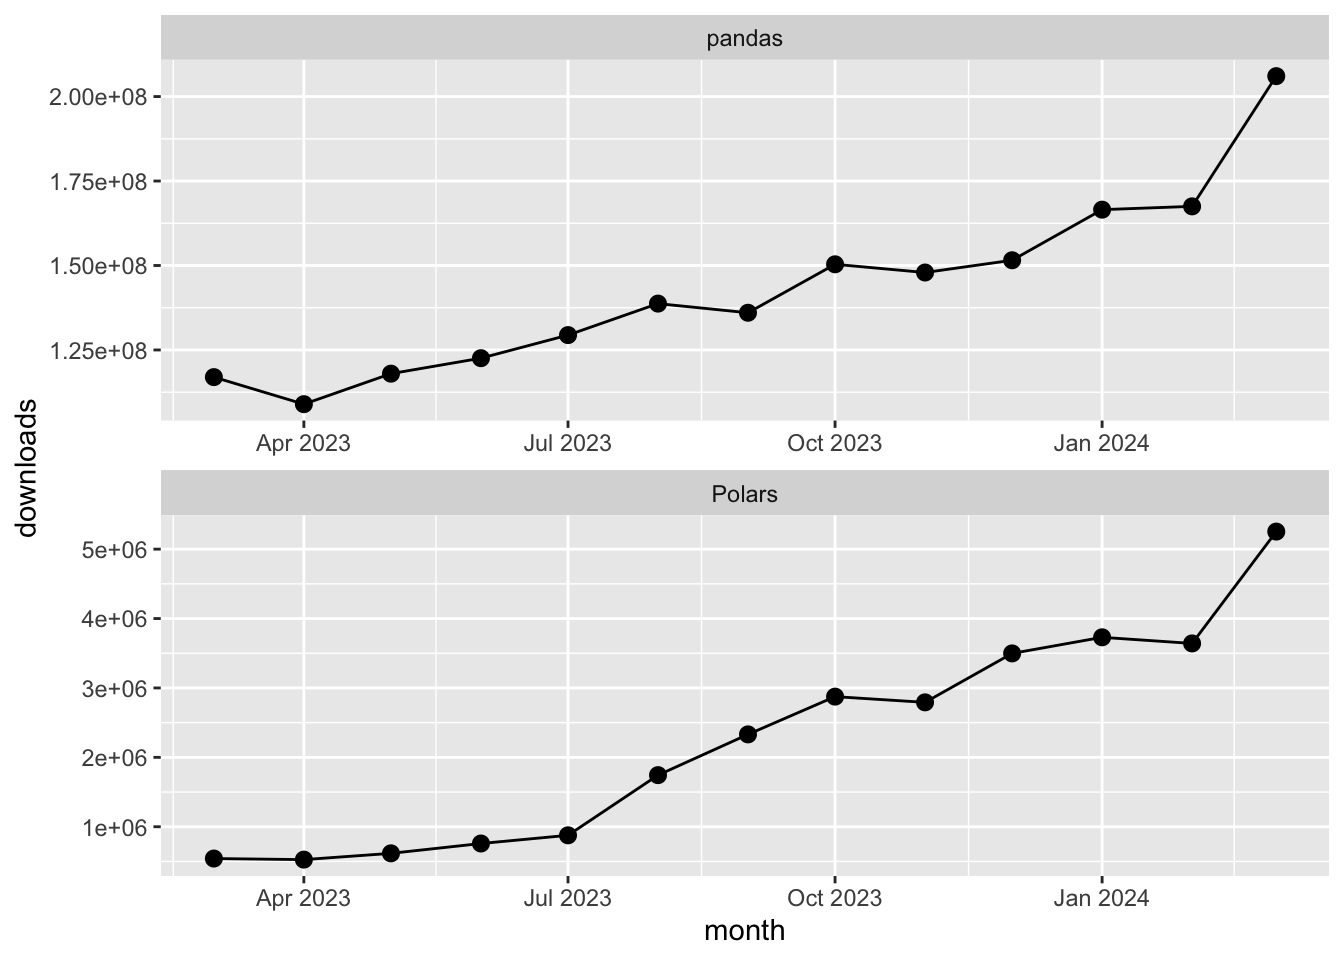
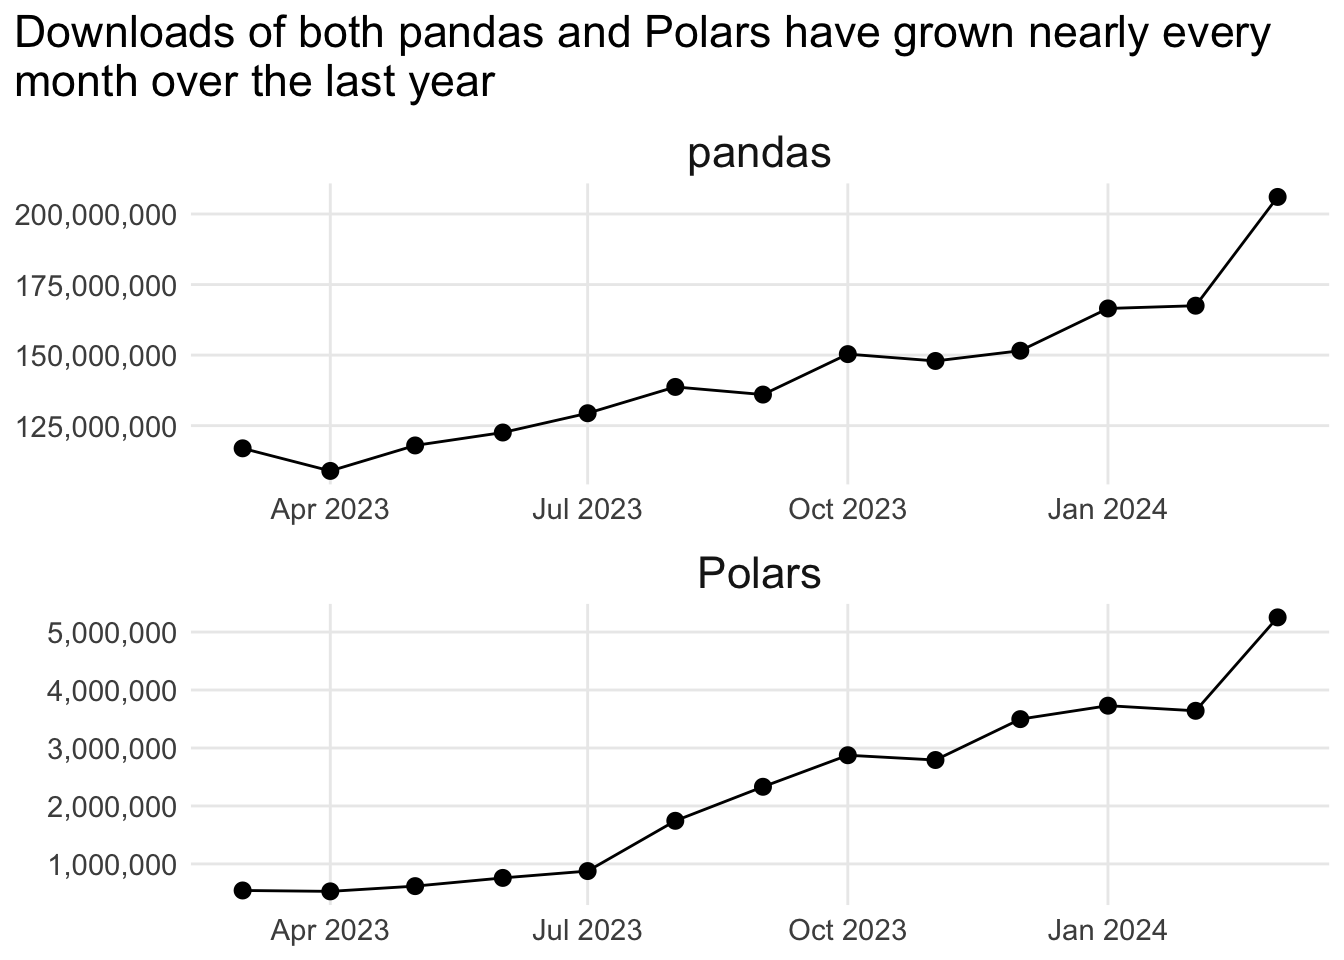
Smarten up charts

diff --git a/pipeline_instructions.html b/pipeline_instructions.html
@@ -183,7 +183,7 @@ pre > code.sourceCode > span > a:first-child::before { text-decoration: underlin
 <span id="cb5-11"><a href="#cb5-11" aria-hidden="true" tabindex="-1"></a></span>
 <span id="cb5-12"><a href="#cb5-12" aria-hidden="true" tabindex="-1"></a>bucket_name</span></code><button title="Copy to Clipboard" class="code-copy-button"><i class="bi"></i></button></pre></div>
 <div class="cell-output cell-output-stdout">
-<pre><code>[1] "fruition_ensigncy3576"</code></pre>
+<pre><code>[1] "shrink_row1916"</code></pre>
 </div>
 </div>
 <p>Now we can create the bucket. Notice that I’m calling a couple of environment variables below - my GCP project ID and my the zone where I want to host the bucket, both of which are stored in the .Renviron file we created earlier.</p>
@@ -198,16 +198,16 @@ pre > code.sourceCode > span > a:first-child::before { text-decoration: underlin
 <span id="cb7-8"><a href="#cb7-8" aria-hidden="true" tabindex="-1"></a>  <span class="at">projection =</span> <span class="fu">c</span>(<span class="st">"noAcl"</span>)</span>
 <span id="cb7-9"><a href="#cb7-9" aria-hidden="true" tabindex="-1"></a>)</span></code><button title="Copy to Clipboard" class="code-copy-button"><i class="bi"></i></button></pre></div>
 <div class="cell-output cell-output-stderr">
-<pre><code>ℹ 2024-04-02 17:57:50 &gt; Bucket created successfully: fruition_ensigncy3576  in  asia</code></pre>
+<pre><code>ℹ 2024-04-03 16:37:17 &gt; Bucket created successfully: shrink_row1916  in  asia</code></pre>
 </div>
 <div class="cell-output cell-output-stdout">
 <pre><code>==Google Cloud Storage Bucket==
-Bucket:          fruition_ensigncy3576 
+Bucket:          shrink_row1916 
 Project Number:  403206438268 
 Location:        ASIA 
 Class:           MULTI_REGIONAL 
-Created:         2024-04-02 04:57:49 
-Updated:         2024-04-02 04:57:49 
+Created:         2024-04-03 03:37:16 
+Updated:         2024-04-03 03:37:16 
 Versioning:      FALSE 
 Meta-generation: 1 
 eTag:            CAE= </code></pre>
@@ -218,7 +218,7 @@ eTag:            CAE= </code></pre>
 <div class="cell">
 <div class="sourceCode cell-code" id="cb10"><pre class="sourceCode r code-with-copy"><code class="sourceCode r"><span id="cb10-1"><a href="#cb10-1" aria-hidden="true" tabindex="-1"></a><span class="fu">gcs_global_bucket</span>(bucket_name)</span></code><button title="Copy to Clipboard" class="code-copy-button"><i class="bi"></i></button></pre></div>
 <div class="cell-output cell-output-stderr">
-<pre><code>Set default bucket name to 'fruition_ensigncy3576'</code></pre>
+<pre><code>Set default bucket name to 'shrink_row1916'</code></pre>
 </div>
 </div>
 <p>I wanted to created a VM as well, which I attempted to do below but it fails. Maybe I’ll try this again in future:</p>
@@ -283,49 +283,49 @@ eTag:            CAE= </code></pre>
 <span id="cb15-6"><a href="#cb15-6" aria-hidden="true" tabindex="-1"></a></span>
 <span id="cb15-7"><a href="#cb15-7" aria-hidden="true" tabindex="-1"></a><span class="fu">gcs_upload</span>(pandas_stats, <span class="at">name =</span> pandas_filename)</span></code><button title="Copy to Clipboard" class="code-copy-button"><i class="bi"></i></button></pre></div>
 <div class="cell-output cell-output-stderr">
-<pre><code>ℹ 2024-04-02 17:58:02 &gt; File size detected as  9.6 Kb</code></pre>
+<pre><code>ℹ 2024-04-03 16:37:27 &gt; File size detected as  9.6 Kb</code></pre>
 </div>
 <div class="cell-output cell-output-stdout">
 <pre><code>==Google Cloud Storage Object==
 Name:                pandas-stats-2023-03-01_2024-03-31.csv 
 Type:                text/csv 
 Size:                9.6 Kb 
-Media URL:           https://www.googleapis.com/download/storage/v1/b/fruition_ensigncy3576/o/pandas-stats-2023-03-01_2024-03-31.csv?generation=1712033882568048&amp;alt=media 
-Download URL:        https://storage.cloud.google.com/fruition_ensigncy3576/pandas-stats-2023-03-01_2024-03-31.csv 
-Public Download URL: https://storage.googleapis.com/fruition_ensigncy3576/pandas-stats-2023-03-01_2024-03-31.csv 
-Bucket:              fruition_ensigncy3576 
-ID:                  fruition_ensigncy3576/pandas-stats-2023-03-01_2024-03-31.csv/1712033882568048 
-MD5 Hash:            G28nrLKwyGodPgGL+C9Zpw== 
+Media URL:           https://www.googleapis.com/download/storage/v1/b/shrink_row1916/o/pandas-stats-2023-03-01_2024-03-31.csv?generation=1712115447597648&amp;alt=media 
+Download URL:        https://storage.cloud.google.com/shrink_row1916/pandas-stats-2023-03-01_2024-03-31.csv 
+Public Download URL: https://storage.googleapis.com/shrink_row1916/pandas-stats-2023-03-01_2024-03-31.csv 
+Bucket:              shrink_row1916 
+ID:                  shrink_row1916/pandas-stats-2023-03-01_2024-03-31.csv/1712115447597648 
+MD5 Hash:            w3XoDSc8ClZ3m3DmaFcvQw== 
 Class:               MULTI_REGIONAL 
-Created:             2024-04-02 04:58:02 
-Updated:             2024-04-02 04:58:02 
-Generation:          1712033882568048 
+Created:             2024-04-03 03:37:27 
+Updated:             2024-04-03 03:37:27 
+Generation:          1712115447597648 
 Meta Generation:     1 
-eTag:                CPDqp5vfooUDEAE= 
-crc32c:              BxPa0g== </code></pre>
+eTag:                CNCUxoiPpYUDEAE= 
+crc32c:              zVNFJQ== </code></pre>
 </div>
 <div class="sourceCode cell-code" id="cb18"><pre class="sourceCode r code-with-copy"><code class="sourceCode r"><span id="cb18-1"><a href="#cb18-1" aria-hidden="true" tabindex="-1"></a><span class="fu">gcs_upload</span>(polars_stats, <span class="at">name =</span> polars_filename)</span></code><button title="Copy to Clipboard" class="code-copy-button"><i class="bi"></i></button></pre></div>
 <div class="cell-output cell-output-stderr">
-<pre><code>ℹ 2024-04-02 17:58:02 &gt; File size detected as  8.9 Kb</code></pre>
+<pre><code>ℹ 2024-04-03 16:37:27 &gt; File size detected as  8.9 Kb</code></pre>
 </div>
 <div class="cell-output cell-output-stdout">
 <pre><code>==Google Cloud Storage Object==
 Name:                polars-stats-2023-03-01_2024-03-31.csv 
 Type:                text/csv 
 Size:                8.9 Kb 
-Media URL:           https://www.googleapis.com/download/storage/v1/b/fruition_ensigncy3576/o/polars-stats-2023-03-01_2024-03-31.csv?generation=1712033882933197&amp;alt=media 
-Download URL:        https://storage.cloud.google.com/fruition_ensigncy3576/polars-stats-2023-03-01_2024-03-31.csv 
-Public Download URL: https://storage.googleapis.com/fruition_ensigncy3576/polars-stats-2023-03-01_2024-03-31.csv 
-Bucket:              fruition_ensigncy3576 
-ID:                  fruition_ensigncy3576/polars-stats-2023-03-01_2024-03-31.csv/1712033882933197 
-MD5 Hash:            glOE+P686r1MJHaawJBNsA== 
+Media URL:           https://www.googleapis.com/download/storage/v1/b/shrink_row1916/o/polars-stats-2023-03-01_2024-03-31.csv?generation=1712115447979578&amp;alt=media 
+Download URL:        https://storage.cloud.google.com/shrink_row1916/polars-stats-2023-03-01_2024-03-31.csv 
+Public Download URL: https://storage.googleapis.com/shrink_row1916/polars-stats-2023-03-01_2024-03-31.csv 
+Bucket:              shrink_row1916 
+ID:                  shrink_row1916/polars-stats-2023-03-01_2024-03-31.csv/1712115447979578 
+MD5 Hash:            LU78UXWTsmvhPj4J41Q+HQ== 
 Class:               MULTI_REGIONAL 
-Created:             2024-04-02 04:58:02 
-Updated:             2024-04-02 04:58:02 
-Generation:          1712033882933197 
+Created:             2024-04-03 03:37:28 
+Updated:             2024-04-03 03:37:28 
+Generation:          1712115447979578 
 Meta Generation:     1 
-eTag:                CM2PvpvfooUDEAE= 
-crc32c:              utyf7g== </code></pre>
+eTag:                CLq83YiPpYUDEAE= 
+crc32c:              wJ6O9A== </code></pre>
 </div>
 </div>
 </section>
@@ -396,7 +396,7 @@ crc32c:              utyf7g== </code></pre>
 </div>
 <p>Now we can create the visual from this data:</p>
 <div class="cell">
-<div class="sourceCode cell-code" id="cb28"><pre class="sourceCode r code-with-copy"><code class="sourceCode r"><span id="cb28-1"><a href="#cb28-1" aria-hidden="true" tabindex="-1"></a>total_downloads <span class="ot">&lt;-</span> <span class="fu">ggplot</span>(total_downloads, <span class="fu">aes</span>(<span class="at">x =</span> library, <span class="at">y =</span> total_downloads)) <span class="sc">+</span></span>
+<div class="sourceCode cell-code" id="cb28"><pre class="sourceCode r code-with-copy"><code class="sourceCode r"><span id="cb28-1"><a href="#cb28-1" aria-hidden="true" tabindex="-1"></a>total_downloads_plot <span class="ot">&lt;-</span> <span class="fu">ggplot</span>(total_downloads, <span class="fu">aes</span>(<span class="at">x =</span> library, <span class="at">y =</span> total_downloads)) <span class="sc">+</span></span>
 <span id="cb28-2"><a href="#cb28-2" aria-hidden="true" tabindex="-1"></a>  <span class="fu">geom_col</span>(<span class="at">fill =</span> <span class="st">"#23a1d6"</span>) <span class="sc">+</span></span>
 <span id="cb28-3"><a href="#cb28-3" aria-hidden="true" tabindex="-1"></a>  <span class="fu">geom_text</span>(<span class="fu">aes</span>(<span class="at">label =</span> scales<span class="sc">::</span><span class="fu">label_number</span>(</span>
 <span id="cb28-4"><a href="#cb28-4" aria-hidden="true" tabindex="-1"></a>    <span class="at">accuracy =</span> <span class="fl">0.1</span>, <span class="at">scale_cut =</span> scales<span class="sc">::</span><span class="fu">cut_short_scale</span>()</span>
@@ -411,10 +411,10 @@ crc32c:              utyf7g== </code></pre>
 <span id="cb28-13"><a href="#cb28-13" aria-hidden="true" tabindex="-1"></a>  ) <span class="sc">+</span></span>
 <span id="cb28-14"><a href="#cb28-14" aria-hidden="true" tabindex="-1"></a>  <span class="fu">labs</span>(</span>
 <span id="cb28-15"><a href="#cb28-15" aria-hidden="true" tabindex="-1"></a>    <span class="at">title =</span> <span class="st">"The Polars library has a long way to go before it becomes</span><span class="sc">\n</span><span class="st">as popular as pandas"</span>,</span>
-<span id="cb28-16"><a href="#cb28-16" aria-hidden="true" tabindex="-1"></a>    <span class="at">subtitle =</span> <span class="fu">paste0</span>(<span class="st">"Total downloads according to PyPI, "</span>, <span class="fu">min</span>(downloads<span class="sc">$</span>date), <span class="st">" to date."</span>)</span>
+<span id="cb28-16"><a href="#cb28-16" aria-hidden="true" tabindex="-1"></a>    <span class="at">subtitle =</span> <span class="fu">paste0</span>(<span class="st">"Total downloads according to PyPI, "</span>, <span class="fu">min</span>(downloads<span class="sc">$</span>date), <span class="st">" to "</span>, <span class="fu">max</span>(downloads<span class="sc">$</span>date), <span class="st">"."</span>)</span>
 <span id="cb28-17"><a href="#cb28-17" aria-hidden="true" tabindex="-1"></a>    )</span>
 <span id="cb28-18"><a href="#cb28-18" aria-hidden="true" tabindex="-1"></a></span>
-<span id="cb28-19"><a href="#cb28-19" aria-hidden="true" tabindex="-1"></a>total_downloads</span></code><button title="Copy to Clipboard" class="code-copy-button"><i class="bi"></i></button></pre></div>
+<span id="cb28-19"><a href="#cb28-19" aria-hidden="true" tabindex="-1"></a>total_downloads_plot</span></code><button title="Copy to Clipboard" class="code-copy-button"><i class="bi"></i></button></pre></div>
 <div class="cell-output-display">
 <p><img src="pipeline_instructions_files/figure-html/total_downloads_chart-1.png" class="img-fluid" width="672"></p>
 </div>
@@ -455,29 +455,44 @@ crc32c:              utyf7g== </code></pre>
 </div>
 <p>And now let’s plot these monthly values:</p>
 <div class="cell">
-<div class="sourceCode cell-code" id="cb32"><pre class="sourceCode r code-with-copy"><code class="sourceCode r"><span id="cb32-1"><a href="#cb32-1" aria-hidden="true" tabindex="-1"></a><span class="fu">ggplot</span>(downloads_by_month, <span class="fu">aes</span>(<span class="at">x =</span> month, <span class="at">y =</span> downloads)) <span class="sc">+</span></span>
-<span id="cb32-2"><a href="#cb32-2" aria-hidden="true" tabindex="-1"></a>  <span class="fu">geom_line</span>() <span class="sc">+</span></span>
-<span id="cb32-3"><a href="#cb32-3" aria-hidden="true" tabindex="-1"></a>  <span class="fu">geom_point</span>(<span class="at">size =</span> <span class="fl">2.5</span>) <span class="sc">+</span></span>
-<span id="cb32-4"><a href="#cb32-4" aria-hidden="true" tabindex="-1"></a>  <span class="fu">facet_wrap</span>(<span class="sc">~</span>library, <span class="at">nrow =</span> <span class="dv">2</span>, <span class="at">scales =</span> <span class="st">"free"</span>)</span></code><button title="Copy to Clipboard" class="code-copy-button"><i class="bi"></i></button></pre></div>
+<div class="sourceCode cell-code" id="cb32"><pre class="sourceCode r code-with-copy"><code class="sourceCode r"><span id="cb32-1"><a href="#cb32-1" aria-hidden="true" tabindex="-1"></a>monthly_downloads_plot <span class="ot">&lt;-</span> <span class="fu">ggplot</span>(</span>
+<span id="cb32-2"><a href="#cb32-2" aria-hidden="true" tabindex="-1"></a>  downloads_by_month, <span class="fu">aes</span>(<span class="at">x =</span> month, <span class="at">y =</span> downloads)</span>
+<span id="cb32-3"><a href="#cb32-3" aria-hidden="true" tabindex="-1"></a>) <span class="sc">+</span></span>
+<span id="cb32-4"><a href="#cb32-4" aria-hidden="true" tabindex="-1"></a>  <span class="fu">geom_line</span>() <span class="sc">+</span></span>
+<span id="cb32-5"><a href="#cb32-5" aria-hidden="true" tabindex="-1"></a>  <span class="fu">geom_point</span>(<span class="at">size =</span> <span class="fl">2.5</span>) <span class="sc">+</span></span>
+<span id="cb32-6"><a href="#cb32-6" aria-hidden="true" tabindex="-1"></a>  <span class="fu">facet_wrap</span>(<span class="sc">~</span>library, <span class="at">nrow =</span> <span class="dv">2</span>, <span class="at">scales =</span> <span class="st">"free"</span>)</span>
+<span id="cb32-7"><a href="#cb32-7" aria-hidden="true" tabindex="-1"></a></span>
+<span id="cb32-8"><a href="#cb32-8" aria-hidden="true" tabindex="-1"></a>monthly_downloads_plot</span></code><button title="Copy to Clipboard" class="code-copy-button"><i class="bi"></i></button></pre></div>
 <div class="cell-output-display">
 <p><img src="pipeline_instructions_files/figure-html/downloads_by_month_charts-1.png" class="img-fluid" width="672"></p>
 </div>
 </div>
 <p>Again, we’ve set the scales to “free” here to clearly see the shape of the downloads data for each Python library, and they tell a similar story: growth nearly every month over the last year, with last month (March 2024) performing especially well. But because the absolute values are very different, it’s hard to tell if they’re growing at the same rate or not.</p>
-<p>To round off this analysis, let’s look at the % change in monthly downloads at the start of the time period to the end of the time period:</p>
+<p>To round off this analysis, let’s look at the annual % change in monthly downloads from March last year to March this year:</p>
 <div class="cell">
-<div class="sourceCode cell-code" id="cb33"><pre class="sourceCode r code-with-copy"><code class="sourceCode r"><span id="cb33-1"><a href="#cb33-1" aria-hidden="true" tabindex="-1"></a>yoy_change <span class="ot">&lt;-</span> downloads_by_month <span class="sc">|&gt;</span> </span>
+<div class="sourceCode cell-code" id="cb33"><pre class="sourceCode r code-with-copy"><code class="sourceCode r"><span id="cb33-1"><a href="#cb33-1" aria-hidden="true" tabindex="-1"></a>yoy_change_tbl <span class="ot">&lt;-</span> downloads_by_month <span class="sc">|&gt;</span> </span>
 <span id="cb33-2"><a href="#cb33-2" aria-hidden="true" tabindex="-1"></a>  <span class="fu">arrange</span>(month) <span class="sc">|&gt;</span> </span>
 <span id="cb33-3"><a href="#cb33-3" aria-hidden="true" tabindex="-1"></a>  <span class="fu">slice</span>(<span class="fu">c</span>(<span class="dv">1</span>, <span class="fu">n</span>()), <span class="at">.by =</span> <span class="st">"library"</span>) <span class="sc">|&gt;</span> </span>
-<span id="cb33-4"><a href="#cb33-4" aria-hidden="true" tabindex="-1"></a>  <span class="fu">mutate</span>(<span class="at">month =</span> <span class="fu">month</span>(month, <span class="at">label =</span> <span class="cn">TRUE</span>)) <span class="sc">|&gt;</span> </span>
-<span id="cb33-5"><a href="#cb33-5" aria-hidden="true" tabindex="-1"></a>  <span class="fu">pivot_wider</span>(<span class="at">names_from =</span> <span class="st">"month"</span>, <span class="at">values_from =</span> <span class="st">"downloads"</span>) <span class="sc">|&gt;</span> </span>
-<span id="cb33-6"><a href="#cb33-6" aria-hidden="true" tabindex="-1"></a>  <span class="fu">mutate</span>(</span>
-<span id="cb33-7"><a href="#cb33-7" aria-hidden="true" tabindex="-1"></a>    <span class="at">variance =</span> Mar<span class="sc">-</span>Apr,</span>
-<span id="cb33-8"><a href="#cb33-8" aria-hidden="true" tabindex="-1"></a>    <span class="at">perc_change =</span> <span class="fu">round</span>((variance<span class="sc">/</span>Apr)<span class="sc">*</span><span class="dv">100</span>)</span>
-<span id="cb33-9"><a href="#cb33-9" aria-hidden="true" tabindex="-1"></a>  )</span>
-<span id="cb33-10"><a href="#cb33-10" aria-hidden="true" tabindex="-1"></a></span>
-<span id="cb33-11"><a href="#cb33-11" aria-hidden="true" tabindex="-1"></a>yoy_change</span></code><button title="Copy to Clipboard" class="code-copy-button"><i class="bi"></i></button></pre></div>
+<span id="cb33-4"><a href="#cb33-4" aria-hidden="true" tabindex="-1"></a>  <span class="fu">mutate</span>(</span>
+<span id="cb33-5"><a href="#cb33-5" aria-hidden="true" tabindex="-1"></a>    <span class="at">year =</span> <span class="fu">paste0</span>(<span class="fu">month</span>(month, <span class="at">label =</span> <span class="cn">TRUE</span>), <span class="st">"_"</span>, <span class="fu">year</span>(month)),</span>
+<span id="cb33-6"><a href="#cb33-6" aria-hidden="true" tabindex="-1"></a>    <span class="at">.keep =</span> <span class="st">"unused"</span></span>
+<span id="cb33-7"><a href="#cb33-7" aria-hidden="true" tabindex="-1"></a>  ) <span class="sc">|&gt;</span> </span>
+<span id="cb33-8"><a href="#cb33-8" aria-hidden="true" tabindex="-1"></a>  <span class="fu">pivot_wider</span>(<span class="at">names_from =</span> <span class="st">"year"</span>, <span class="at">values_from =</span> <span class="st">"downloads"</span>) <span class="sc">|&gt;</span> </span>
+<span id="cb33-9"><a href="#cb33-9" aria-hidden="true" tabindex="-1"></a>  <span class="fu">mutate</span>(</span>
+<span id="cb33-10"><a href="#cb33-10" aria-hidden="true" tabindex="-1"></a>    <span class="at">variance =</span> Mar_2024 <span class="sc">-</span> Mar_2023,</span>
+<span id="cb33-11"><a href="#cb33-11" aria-hidden="true" tabindex="-1"></a>    <span class="at">perc_change =</span> <span class="fu">round</span>((variance<span class="sc">/</span>Mar_2023)<span class="sc">*</span><span class="dv">100</span>)</span>
+<span id="cb33-12"><a href="#cb33-12" aria-hidden="true" tabindex="-1"></a>  )</span>
+<span id="cb33-13"><a href="#cb33-13" aria-hidden="true" tabindex="-1"></a></span>
+<span id="cb33-14"><a href="#cb33-14" aria-hidden="true" tabindex="-1"></a>yoy_change_tbl</span></code><button title="Copy to Clipboard" class="code-copy-button"><i class="bi"></i></button></pre></div>
+<div class="cell-output cell-output-stdout">
+<pre><code># A tibble: 2 × 5
+  library  Mar_2023  Mar_2024 variance perc_change
+  &lt;chr&gt;       &lt;int&gt;     &lt;int&gt;    &lt;int&gt;       &lt;dbl&gt;
+1 pandas  116966062 206047362 89081300          76
+2 Polars     541848   5253048  4711200         869</code></pre>
 </div>
+</div>
+<p>We can see from this that even though downloads of pandas grew by 76% from March 2023 to March 2024, downloads of Polars grew by a whopping 869% over the same period. Whilst Polars has a long way to go before it’s as popular as pandas, its growth over the last year has been tremendous.</p>
 </section>
 <section id="dashboard" class="level2">
 <h2 class="anchored" data-anchor-id="dashboard">Dashboard</h2>
